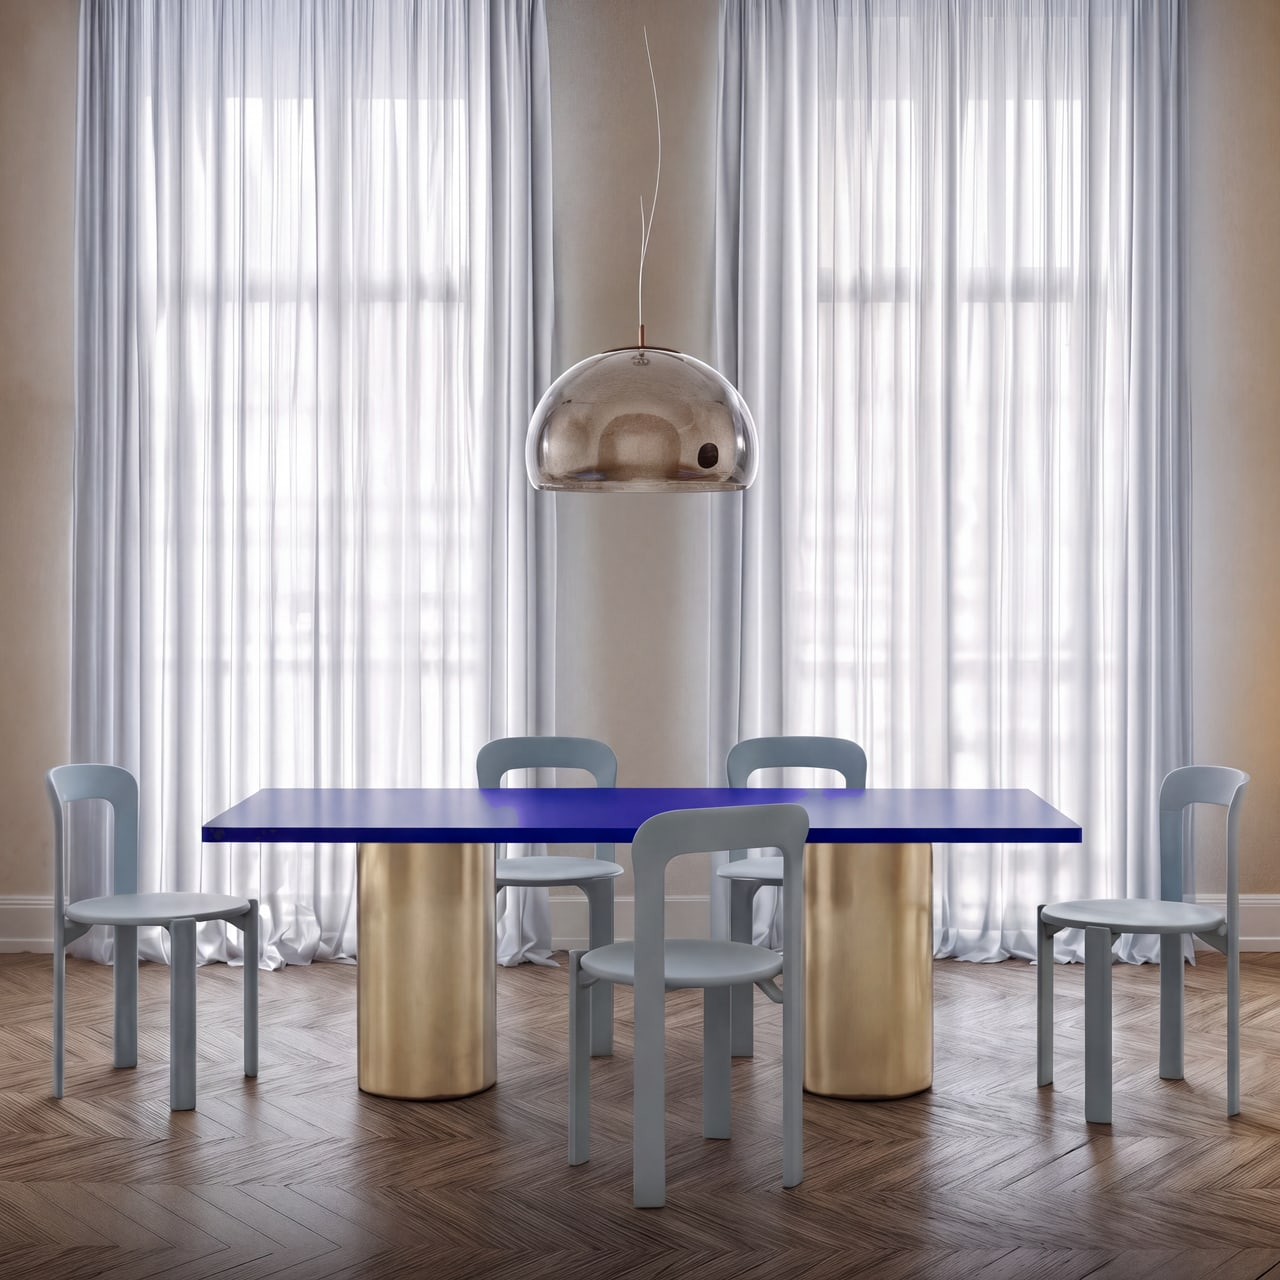
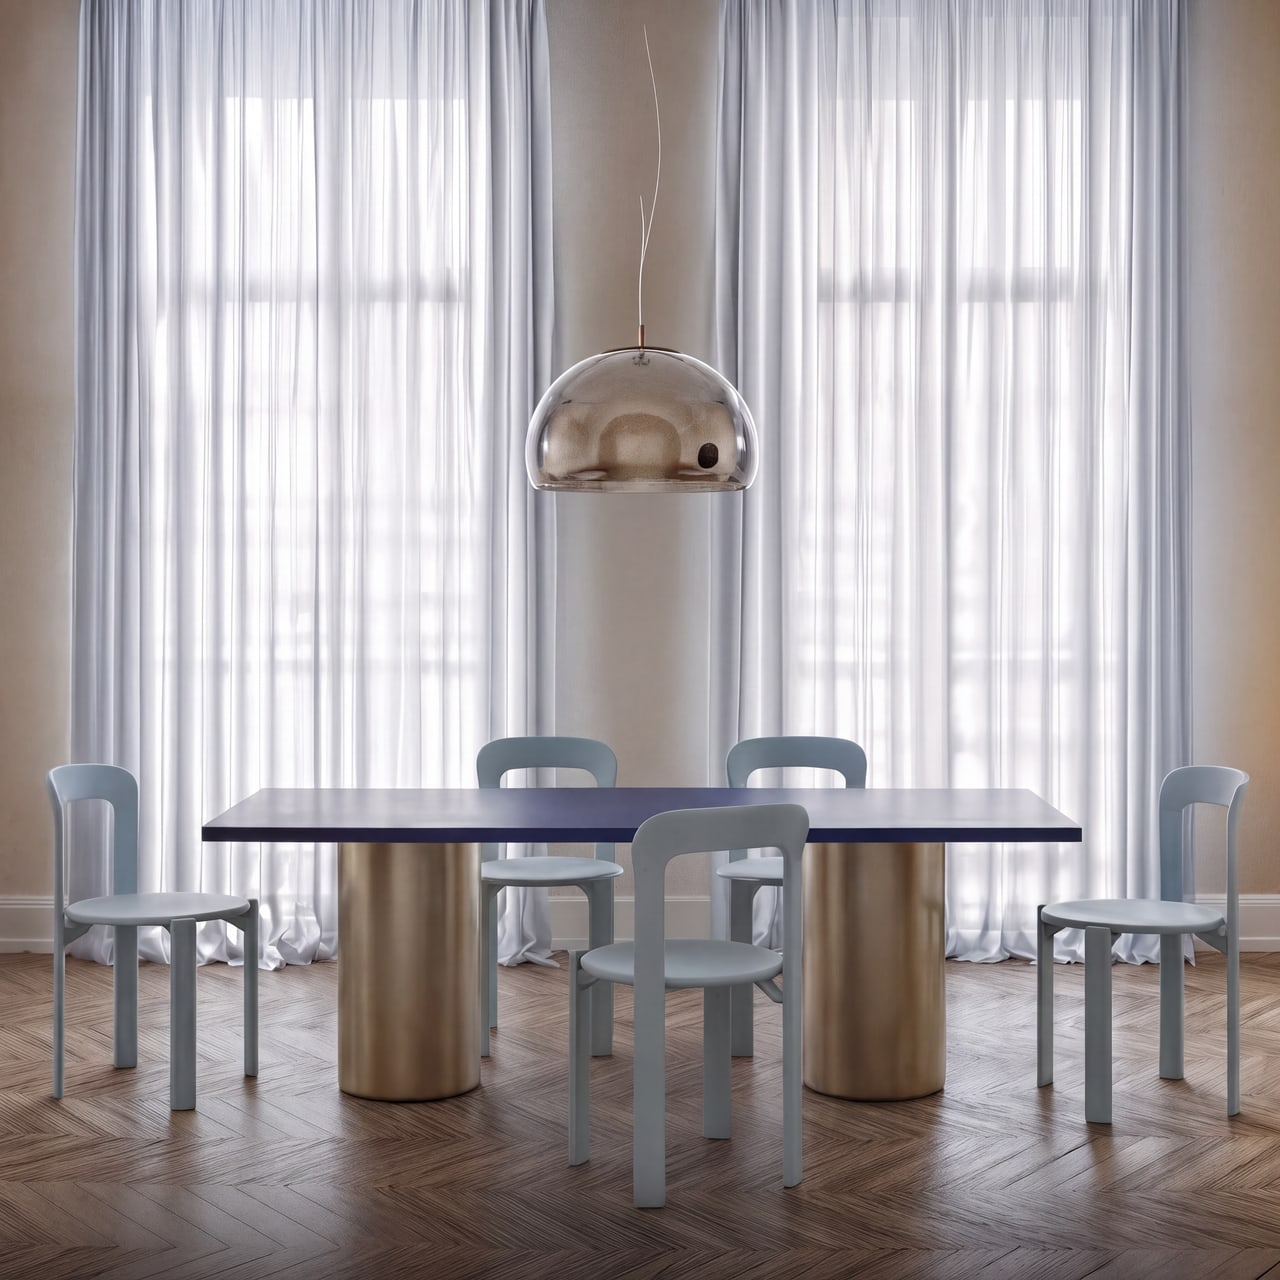
Archive interior: minimal-edit render of the original, no post-grading

Changed region(s): [[0.1562, 0.5938, 0.8438, 0.9688], [0.4375, 0.3438, 0.4688, 0.375], [0.0938, 0.8438, 0.125, 0.875]]

diff --git a/scripts/grade/home_grade.py b/scripts/grade/home_grade.py
@@ -1,6 +1,7 @@
 import sys; sys.path.insert(0,'.'); from leglib import *
 src,out=sys.argv[1],sys.argv[2]
-COBALT=np.array([20.0,31.5,-50.2]); BRASS=np.array([55.3,4.7,18.4])
+# in-scene targets measured from the original backlit Archive render (studio values look fake here)
+COBALT=np.array([40.2,2.5,-13.0]); BRASS=np.array([38.1,3.5,14.5]); TOP_L_SCALE=0.5
 im=Image.open(src).convert('RGB'); im=im.resize((3072,3072),Image.LANCZOS)
 lab=rgb2lab(np.asarray(im,dtype=np.float32)/255); H_,W_=lab.shape[:2]; L,a,b=lab[...,0],lab[...,1],lab[...,2]; C=np.hypot(a,b)
 top=blur(((b<-22)&(C>22)&(L<55)).astype(np.float32),2)>0.5
@@ -17,7 +18,9 @@ for c in comps:                                   # keep only blobs hanging from
 leg=blur(leg.astype(np.float32),3)>0.5
 mt=blur(top.astype(np.float32),1.5); ml=blur(leg.astype(np.float32),1.5)*(1-mt)
 ct=top&(blur(top.astype(np.float32),3)>0.99); cl=leg&(blur(leg.astype(np.float32),3)>0.99)
-lab2=lab+mt[...,None]*(COBALT-lab[ct].mean(0))     # plain average shift keeps the render's natural shading
+mu=lab[ct].mean(0); new=lab-mu+COBALT
+new[...,0]=COBALT[0]+(lab[...,0]-mu[0])*TOP_L_SCALE          # calm fal's blotchy highlight on the top
+lab2=lab*(1-mt[...,None])+new*mt[...,None]
 lab2=lab2+ml[...,None]*(BRASS-lab2[cl].mean(0))
 res=(np.clip(lab2rgb(lab2),0,1)*255+0.5).astype(np.uint8); Image.fromarray(res).save(out)
 chk=rgb2lab(res.astype(np.float32)/255)

diff --git a/scripts/grade/fal_home3.py b/scripts/grade/fal_home3.py
@@ -1,0 +1,12 @@
+import sys; sys.argv=['x']
+from fal_gen import uri, call
+from concurrent.futures import ThreadPoolExecutor
+SRC='/Users/headroom/Desktop/MIIM/originals/miim-i-cobalt-brass-home.png'
+P=("Make a subtle, photorealistic correction to this exact photograph and output it at high resolution. Keep EVERYTHING the same: the room, curtains, "
+   "light, herringbone floor, the dome pendant, all five chairs and their positions, the camera, and the deep cobalt lacquered tabletop with its dark "
+   "front edge and the soft daylight reflection on its surface. Change only the two cylindrical table legs: move them further apart so their centres "
+   "sit at one quarter and three quarters of the table length (equal overhang at both ends, each about a quarter of the length), and make their "
+   "diameter about one fifth of the table length. The legs are satin brushed champagne brass, lit from behind like the rest of the scene, with soft "
+   "vertical sheen and natural shadow, no mirror reflections. Do not restyle the image; it must look like the same photograph.")
+def go(k): return call('fal-ai/nano-banana-pro/edit',{'prompt':P,'image_urls':[uri(SRC)],'num_images':1,'output_format':'png','resolution':'4K','aspect_ratio':'1:1'},f'/Users/headroom/Desktop/MIIM/directions/canal/home-v3-{k}.png')
+with ThreadPoolExecutor(3) as ex: print(list(ex.map(go,range(3))))
